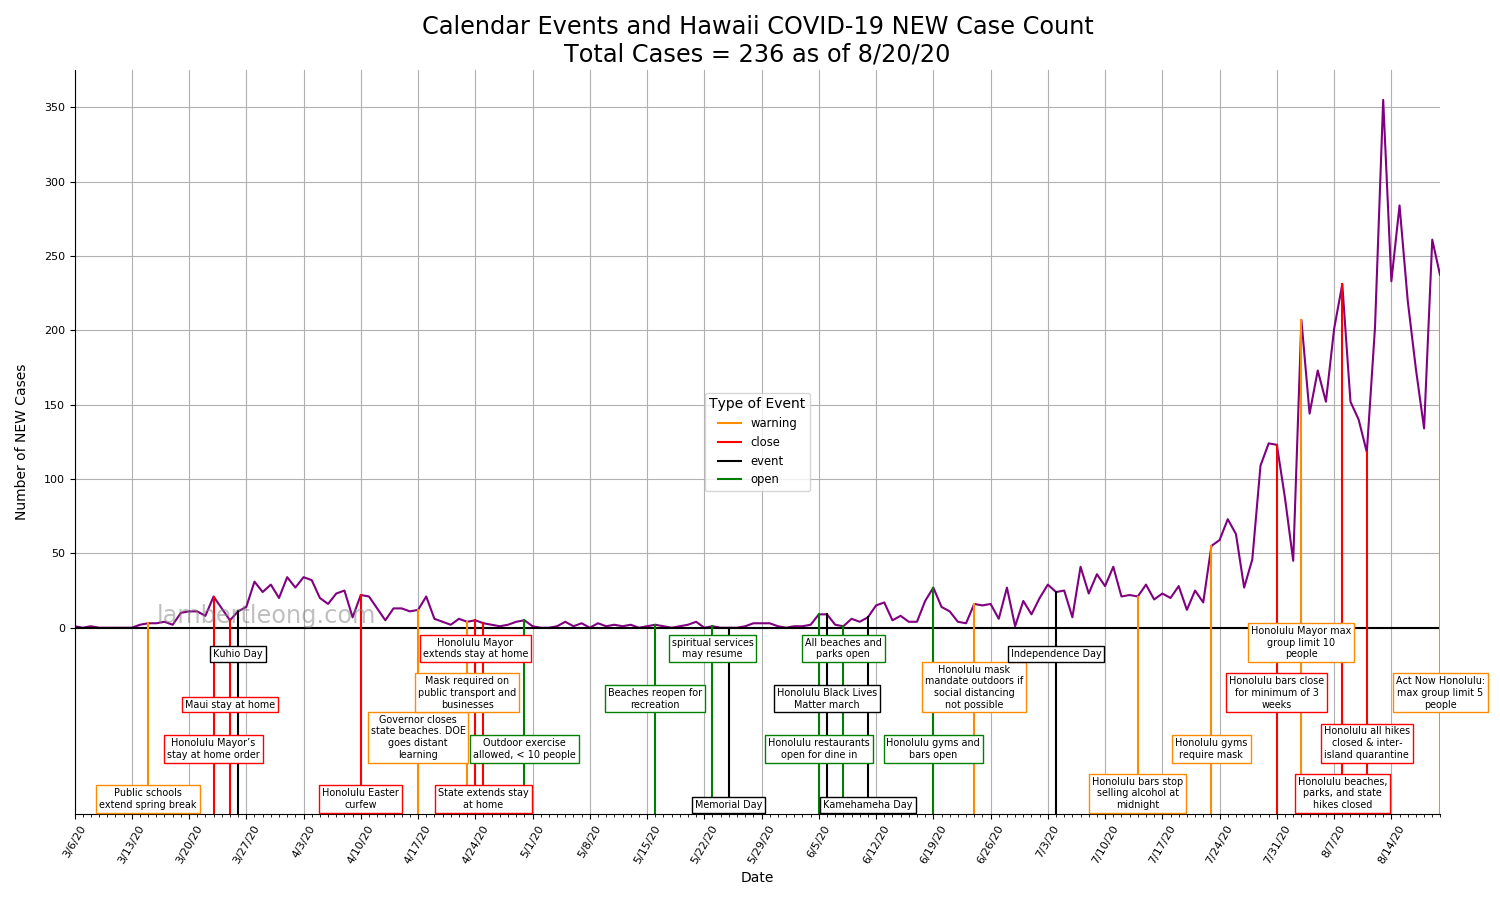
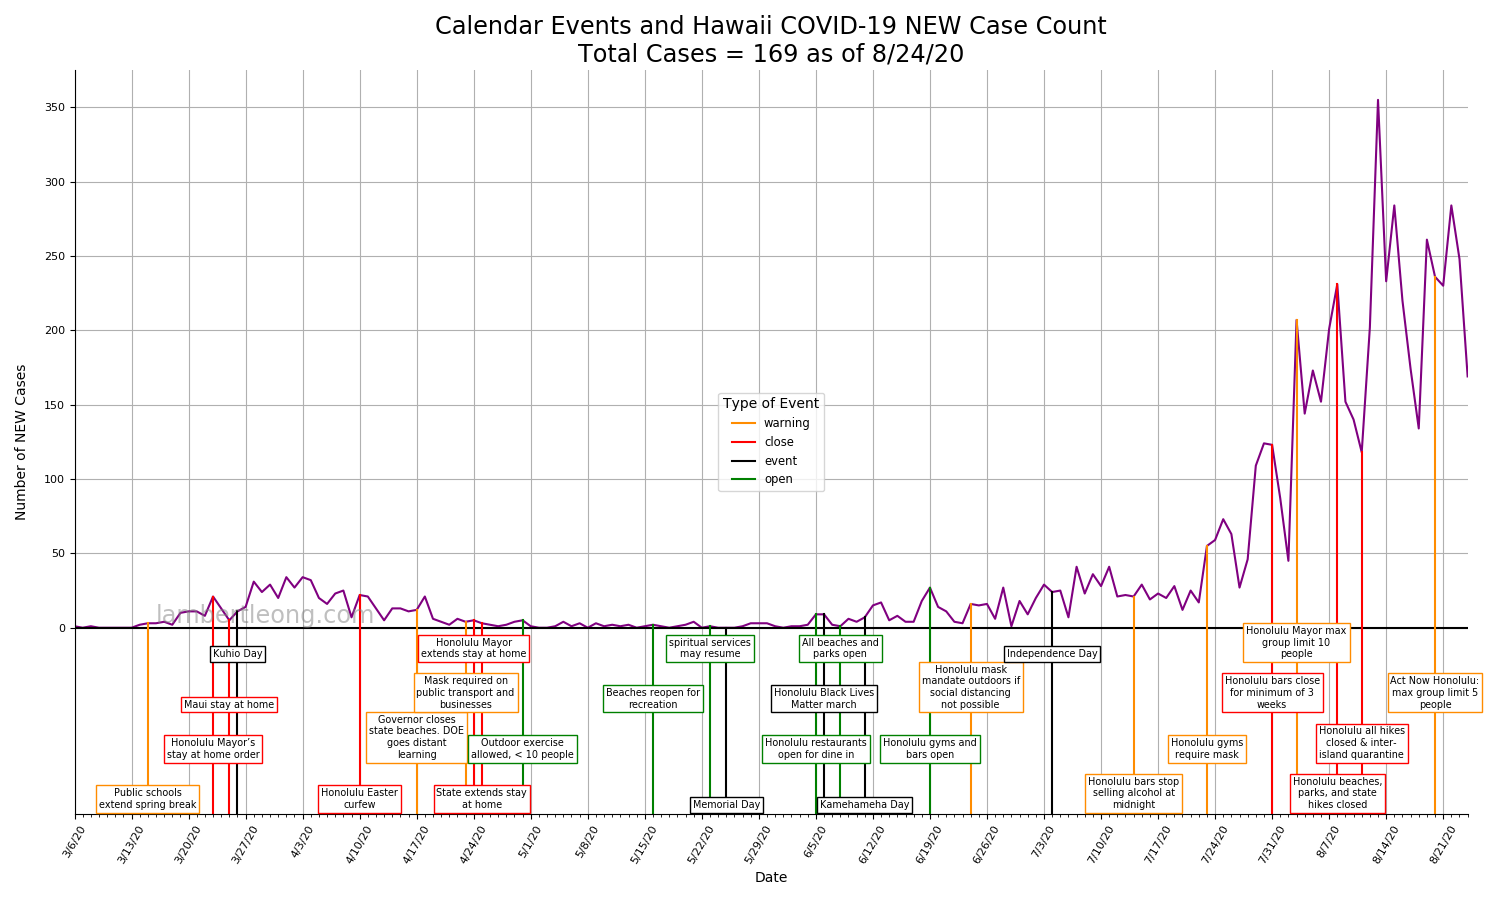
covid updates

diff --git a/_posts/thoughts/2020-08-12-hawaii-covid19-timeline.md b/_posts/thoughts/2020-08-12-hawaii-covid19-timeline.md
@@ -2,7 +2,7 @@
 layout: post
 cover: assets/images/essays/hawaii_covid/case_count.gif
 title: What data says about Hawaii's COVID19 response
-date: 2020-08-20
+date: 2020-08-24
 categories: thoughts
 author: Lambert
 featured: True
@@ -10,7 +10,7 @@ permalink: thoughts/hawaii-covid19-timeline
 comments: true
 description: Chart of Hawaii's events in relation to novel corona virus (COVID-19) cases
 labels:
-  - 
+  -
 ---
 
 __More Data and Interpretation Coming Soon__
@@ -25,7 +25,7 @@ Things to consider/note:
 
 [__Download Full Case Chart HERE__](/assets/images/essays/hawaii_covid/hawaii_covid19_case_timeline.png)
 <div class="img-zoom-container">
-  <img id="myimage" src="/assets/images/essays/hawaii_covid/hawaii_covid19_case_timeline2.png" width="100%" 
+  <img id="myimage" src="/assets/images/essays/hawaii_covid/hawaii_covid19_case_timeline2.png" width="100%"
   height="auto" alt="Hawaii COVID-19 Case Timeline">
   <br>
   <!--p>
@@ -43,7 +43,7 @@ imageZoom("myimage", "myresult");
 
 [__Download Full New Case Chart HERE__](/assets/images/essays/hawaii_covid/hawaii_covid19_newcase_timeline.png)
 <div class="img-zoom-container">
-  <img id="myimage2" src="/assets/images/essays/hawaii_covid/hawaii_covid19_newcase_timeline2.png" width="100%" 
+  <img id="myimage2" src="/assets/images/essays/hawaii_covid/hawaii_covid19_newcase_timeline2.png" width="100%"
   height="auto" alt="Hawaii COVID-19 New Case Timeline">
   <br>
   <!--p>
@@ -61,9 +61,9 @@ imageZoom("myimage2", "myresult2");
 
 Final Remarks:
 
-Increase your healthspan via exercise, diet, etc.  This is not often focused on as a recommendation because the results 
-of wearing a mask and social distancing are more obvious and immediate.  Everyone, unfortunately, 
-will have some adverse health event.  The healthier you are (i.e. better healthspan) when you encounter an adverse health event, the 
+Increase your healthspan via exercise, diet, etc.  This is not often focused on as a recommendation because the results
+of wearing a mask and social distancing are more obvious and immediate.  Everyone, unfortunately,
+will have some adverse health event.  The healthier you are (i.e. better healthspan) when you encounter an adverse health event, the
 better your chances are of coming out of it and regaining your healthspan.
 
 <br>
